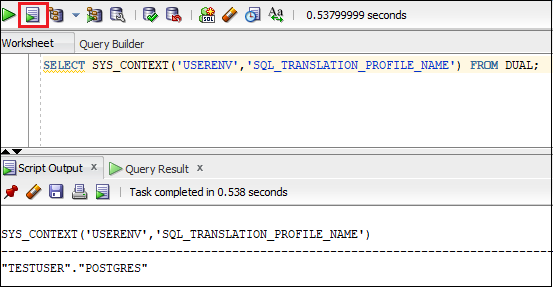
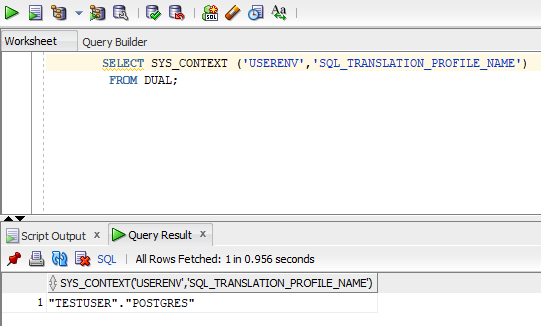
changes

Changed region(s): [[0.0, 0.0, 1.0, 1.0]]

diff --git a/shared/adb-application-migration/run-postgre-sql-statements-in-adbs/run-postgre-sql-statements-in-adbs.md b/shared/adb-application-migration/run-postgre-sql-statements-in-adbs/run-postgre-sql-statements-in-adbs.md
@@ -57,7 +57,8 @@ To run a PostgreSQL statement in your Autonomous Database you must first enable 
 
       ```
     <copy>
-        SELECT SYS_CONTEXT ('USERENV','SQL_TRANSLATION_PROFILE_NAME') FROM DUAL;
+      SELECT SYS_CONTEXT ('USERENV','SQL_TRANSLATION_PROFILE_NAME')
+      FROM DUAL;
     </copy>
     ```
 
@@ -73,36 +74,54 @@ This shows the enabled translation language for your session.
 
     ```
     <copy>
-    CREATE TABLE film (film_id int, title varchar(255));
+    CREATE TABLE emp (emp_id int, name varchar(255), salary money, hire_date date);
     </copy>
     ```
 
-  This entered PostreSQL statement runs seamlessly as Oracle SQL in your session.
+   ![Use DBMS_CLOUD_MIGRATION.ENABLE_TRANSLATION Procedure](images/create-table.png)
+
+  This entered PostgreSQL statement runs seamlessly as Oracle SQL in your session.
 
    Verify the table creation. Copy and paste the following code into your SQL Worksheet, and then click the **Run Script (F5)** icon in the Worksheet toolbar.
 
     ```
     <copy>
-    DESC film;
+    DESCRIBE emp;
     </copy>
     ```
-  2. After the table **FILM** is created, you can insert records into the table. Copy and paste the following code into your SQL Worksheet, and then click the **Run Script (F5)** icon in the Worksheet toolbar.
+
+    ![Use DBMS_CLOUD_MIGRATION.ENABLE_TRANSLATION Procedure](images/desc-emp.png)
+
+    Please note that the **MONEY** PostgreSQL datatype is automatically converted to **NUMBER** datatype.
+
+  2. After the table **EMP** is created, you can insert records into the table. Copy and paste the following code into your SQL Worksheet, and then click the **Run Script (F5)** icon in the Worksheet toolbar.
 
      ```
     <copy>
-    INSERT INTO film(film_id, title) VALUES (123, 'Tangled');
-    INSERT INTO film(film_id, title) VALUES (234, 'Frozen');
+    INSERT INTO emp(emp_id, name, salary, hire_date) VALUES (101, 'King',  25000, sysdate);
+    INSERT INTO emp(emp_id, name, salary, hire_date) VALUES (102, 'James', 30000, sysdate);
+    INSERT INTO emp(emp_id, name, salary, hire_date) VALUES (103, 'Nancy', 35000, sysdate);
+    INSERT INTO emp(emp_id, name, salary, hire_date) VALUES (104, 'Lauran',35000, sysdate);
+    INSERT INTO emp(emp_id, name, salary, hire_date) VALUES (105, 'Neena', 30000, sysdate);
     </copy>
     ```
-    This inserts two records into the **FILM** table.
 
-    Use SQL SELECT statement to retrieve records from the **FILM** table.  Copy and paste the following code into your SQL Worksheet, and then click the **Run Script (F5)** icon in the Worksheet toolbar.
+     ![Use DBMS_CLOUD_MIGRATION.ENABLE_TRANSLATION Procedure](images/insert.png)
+
+    This inserts five records into the **EMP** table.
+
+    Use SQL SELECT statement to retrieve records from the **EMP** table.  Copy and paste the following code into your SQL Worksheet, and then click the **Run Script (F5)** icon in the Worksheet toolbar.
 
      ```
     <copy>
-    SELECT * FROM film AS f;
+    Select emp_test.*
+    FROM emp AS emp_test;
     </copy>
     ```
+
+    ![Use DBMS_CLOUD_MIGRATION.ENABLE_TRANSLATION Procedure](images/select-emp.png)
+
+    This retrieves five records from the **EMP** table.
 
 ## Task 3: Disable Real-Time SQL Translation in Your Session
 
@@ -116,14 +135,15 @@ This shows the enabled translation language for your session.
     /
     </copy>
     ```
+
+    ![Use DBMS_CLOUD_MIGRATION.ENABLE_TRANSLATION Procedure](images/disable-translation.png)
 This disables the real-time SQL translation in your session.
 
-
-
+**Note:**  An error is encountered if SQL language translation is not enabled for your session.
 
 
 ## Acknowledgements
 
-**Author:**       - Shilpa Sharma, Principal User Assistance Developer
-**Contributors:** - Lauran K. Serhal, Consulting User Assistance Developer
-**Last Updated By/Date:** - Shilpa Sharma, March 2025
+- **Author:**       - Shilpa Sharma, Principal User Assistance Developer
+- **Contributors:** - Lauran K. Serhal, Consulting User Assistance Developer
+- **Last Updated By/Date:** - Shilpa Sharma, March 2025

diff --git a/shared/adb-application-migration/translate-postgre-sql-statements-to-oracle-sql/translate-postgre-sql-statements-to-oracle-sql.md b/shared/adb-application-migration/translate-postgre-sql-statements-to-oracle-sql/translate-postgre-sql-statements-to-oracle-sql.md
@@ -27,7 +27,6 @@ To complete the subsequent tasks you need connect to your Autonomous Database us
 
 1. Navigate to your SQL worksheet.
 
-
 ## Task 2: Use the `DBMS_CLOUD_MIGRATION.MIGRATE_SQL` Procedure to Translate a PostgreSQL statement to Oracle SQL
 
 The `DBMS_CLOUD_MIGRATION.MIGRATE_SQL` procedure accepts a PostgreSQL statement as input and translates the statement to Oracle SQL.
@@ -81,6 +80,6 @@ The function version of the `DBMS_CLOUD_MIGRATION.MIGRATE_SQL` subroutine accept
 
 ## Acknowledgements
 
-**Author:**       - Shilpa Sharma, Principal User Assistance Developer
-**Contributors:** - Lauran K. Serhal, Consulting User Assistance Developer
-**Last Updated By/Date:** - Shilpa Sharma, March 2025
+- **Author:**       - Shilpa Sharma, Principal User Assistance Developer
+- **Contributors:** - Lauran K. Serhal, Consulting User Assistance Developer
+- **Last Updated By/Date:** - Shilpa Sharma, March 2025
